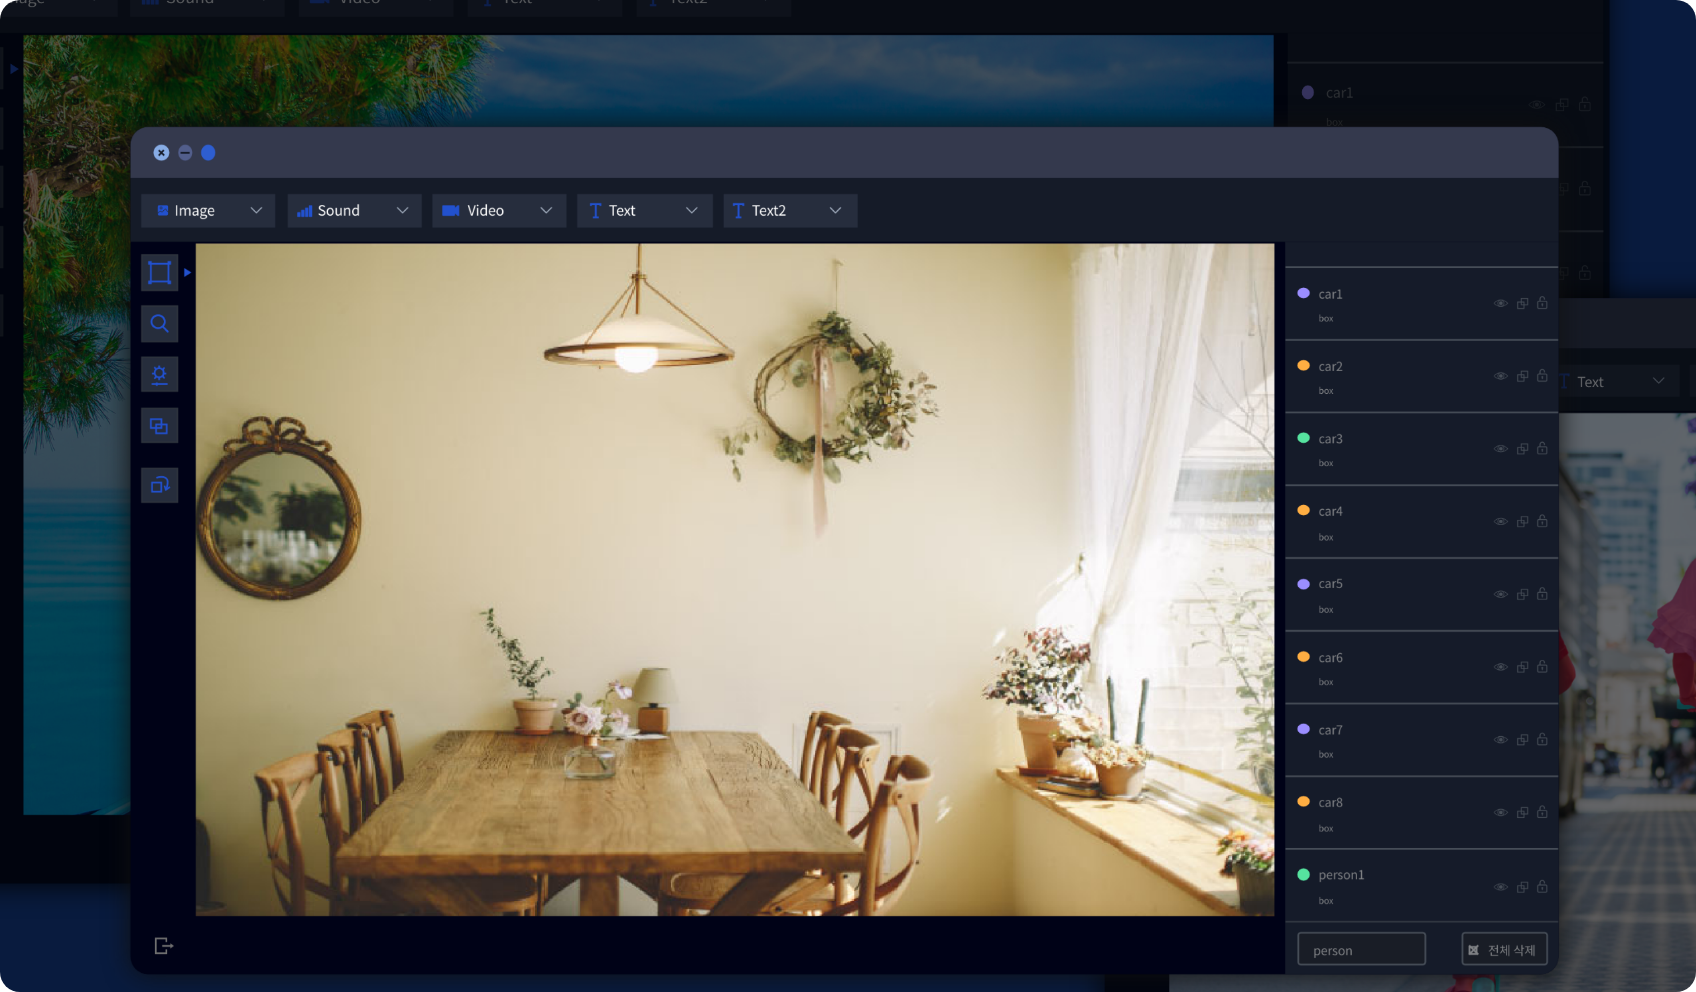
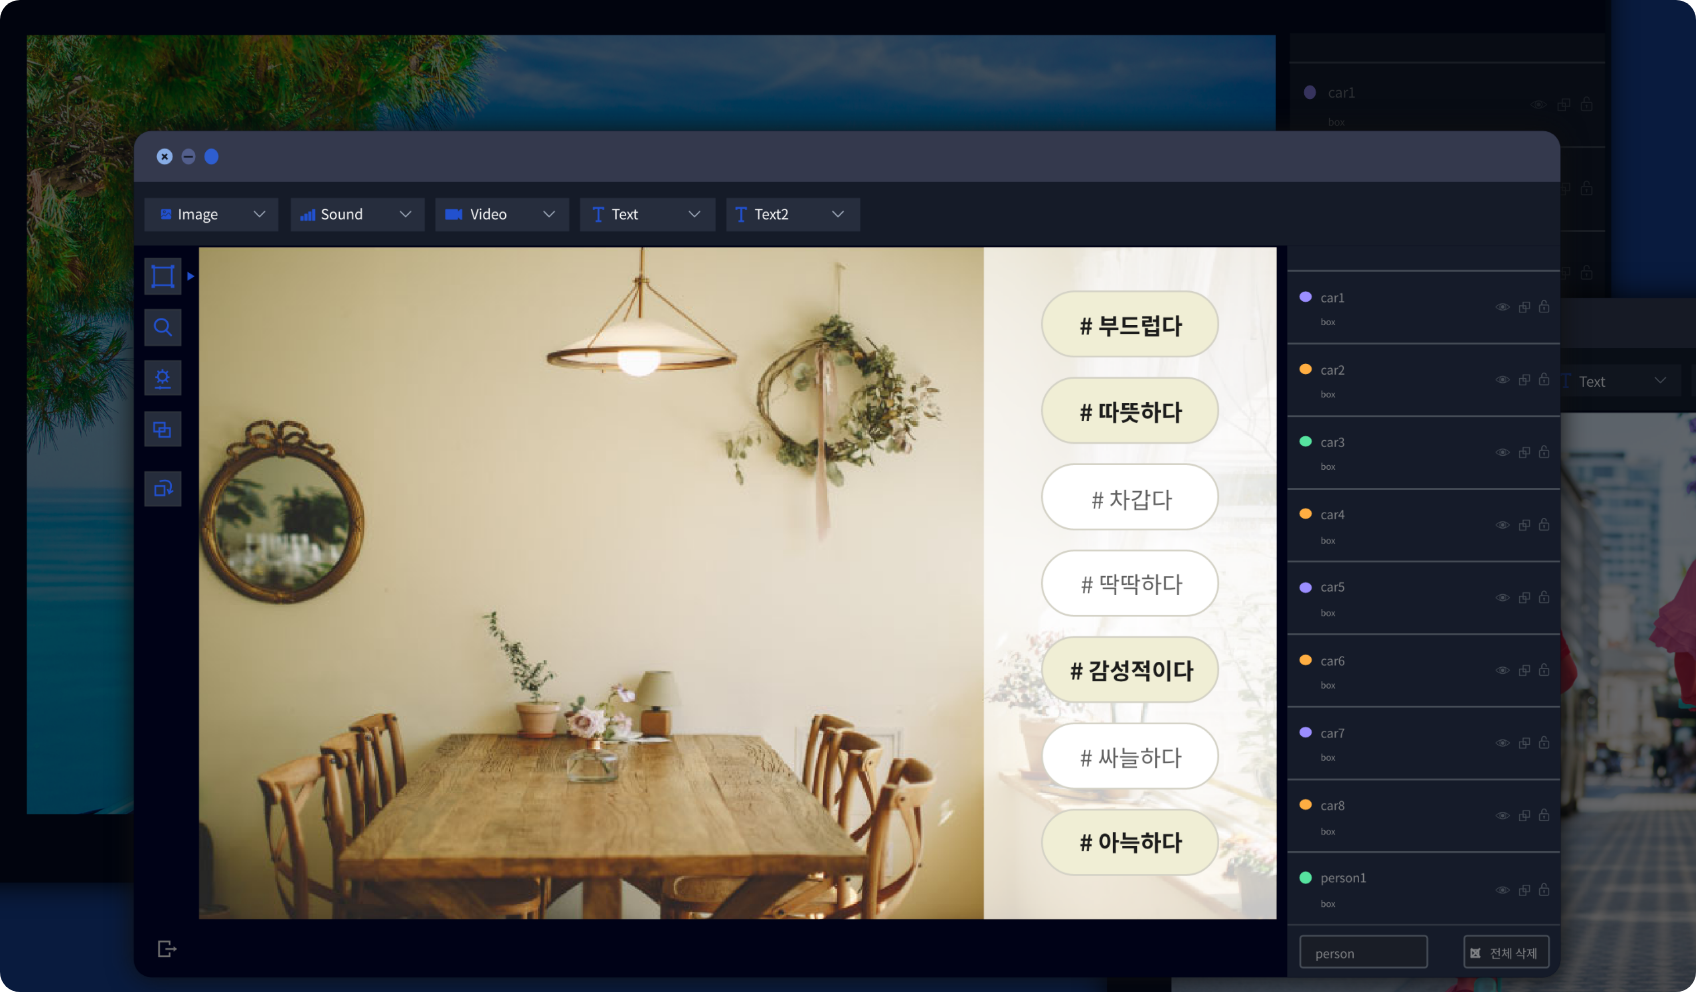
[수정] 마음데이터 - 랜딩페이지 이용사례 이미지 교체, Sound -> Audio 텍스트 변경, 성공사례 페이지 내 '스타일봇' 소개 텍스트, 링크 변경 및 해당 css 수정

Changed region(s): [[0.0, 0.0312, 0.9375, 1.0], [0.6875, 0.9688, 0.7188, 1.0], [0.0938, 0.9375, 0.125, 0.9688]]

diff --git a/maumData_renewal/html/ko/landing/successCases.html b/maumData_renewal/html/ko/landing/successCases.html
@@ -171,10 +171,10 @@
                                 <div class="descBox">
                                     <dl>
                                         <dt>스타일 봇</dt>
-                                        <dd>사용자가 보유하고 있는 의류를 가상 환경옷장에서 관리 하고 TPO에 어울리는 코디를 추천하는 서비스 개발을 위해 패션 이미지 Segmentation 데이터를 가공했습니다.</dd>
+                                        <dd>‘내 손안의 인공지능 스타일리스트 스타일봇’ 사용자가 보유하고 있는 의류를 가상 환경 옷장에서 관리하고 취향에 맞는 코디 추천 서비스를 위해 패션 이미지 데이터를 가공 했습니다.</dd>
                                     </dl>
                                 </div>
-                                <a href="https://www.stylebot.co.kr" target="_black" title="새창으로 열기" class="btn_go_site">바로가기</a>
+                                <a href="https://apps.apple.com/kr/app/%EC%8A%A4%ED%83%80%EC%9D%BC%EB%B4%87/id1525876097" target="_black" title="새창으로 열기" class="btn_go_site">바로가기</a>
                             </li>
                             <li>
                                 <div class="logoBox">

diff --git a/maumData_renewal/assets/css/landing.css b/maumData_renewal/assets/css/landing.css
@@ -373,6 +373,7 @@
 .stn.successCases .cases_lst li .btn_go_site {display:block; position:absolute; right:20px; bottom:23px; padding:0 19px 0 0; background:url('../images/landing/ico_newpage.svg') 100% 50% no-repeat; background-size:auto 12px; color:#1054b2; font-size:0.5rem; letter-spacing:-0.12px;}
 .stn.successCases .cases_lst li:nth-child(n+3) {margin:28px 0 0;}
 .stn.successCases .cases_lst li:nth-child(n+4) .logoBox img {width:160px;}
+.stn.successCases .cases_lst li:nth-child(7) .descBox dl dd {letter-spacing:-1.33px;}
 
 /* -------------------- media query -------------------- */
 @media screen and (max-width:768px) {

diff --git a/maumData_renewal/html/ko/landing/main.html b/maumData_renewal/html/ko/landing/main.html
@@ -103,7 +103,7 @@
                         <div class="tabArea">
                             <ul class="tab_lst">
                                 <li class="tab_image active">Image</li>
-                                <li class="tab_sound">Sound</li>
+                                <li class="tab_sound">Audio</li>
                                 <li class="tab_video">Video</li>
                                 <li class="tab_text">Text</li>
                             </ul>
